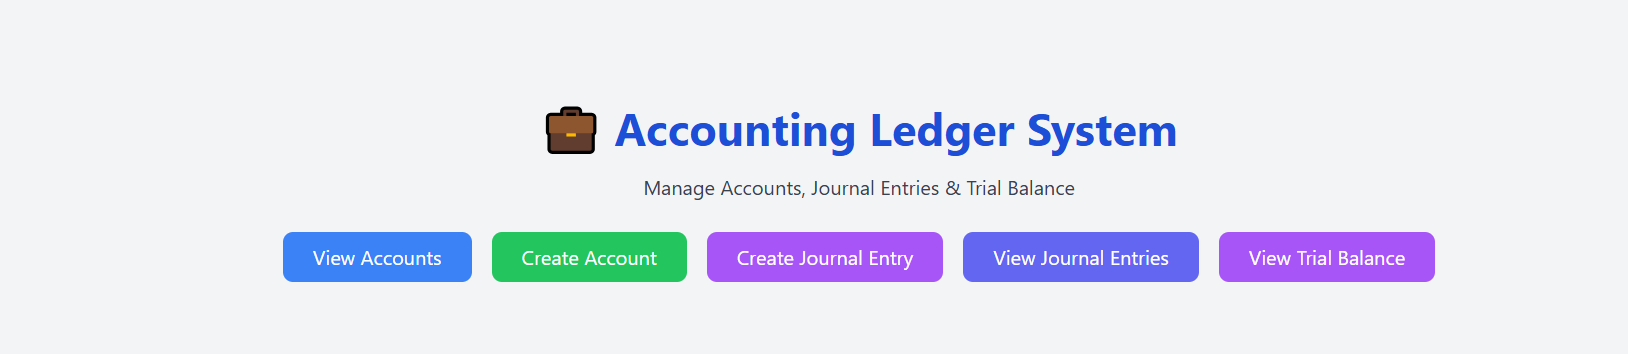
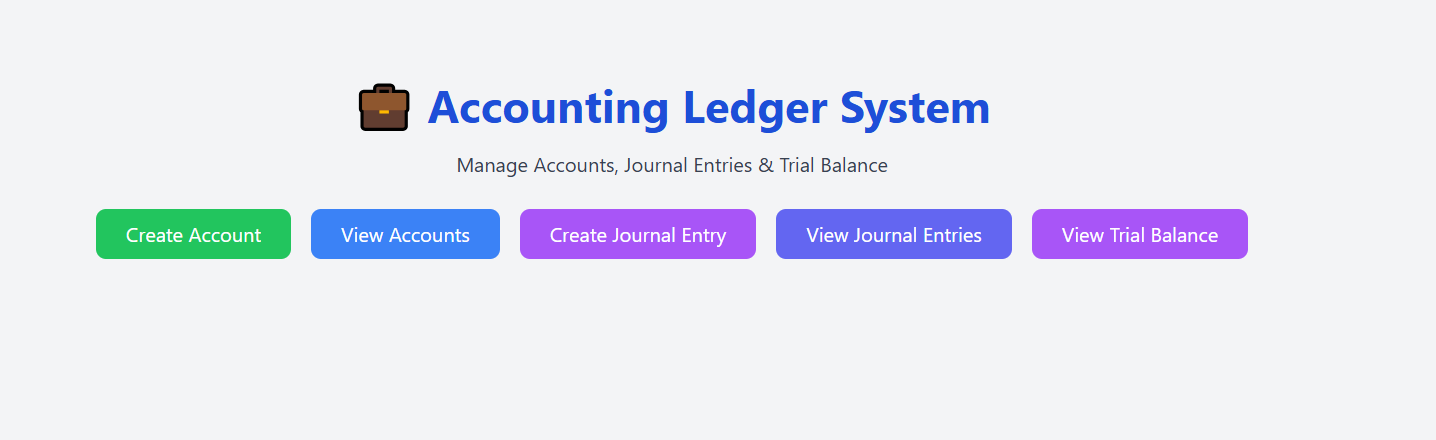
Upload Screenshot

Changed region(s): [[0.1532, 0.6525, 0.8886, 0.8079], [0.0613, 0.4661, 0.8886, 0.5904], [0.2451, 0.1864, 0.7354, 0.435]]

diff --git a/AccountingLedgerSystem/src/pages/Home.jsx b/AccountingLedgerSystem/src/pages/Home.jsx
@@ -14,17 +14,18 @@ const Home = () => {
       <p className="mb-6 text-gray-700">Manage Accounts, Journal Entries & Trial Balance</p>
 
       <div className="flex gap-4">
-        <Link
-          to="/accounts"
-          className="px-6 py-2 bg-blue-500 hover:bg-blue-600 text-white rounded-lg transition"
-        >
-          View Accounts
-        </Link>
+
         <Link
           to="/accounts/create"
           className="px-6 py-2 bg-green-500 hover:bg-green-600 text-white rounded-lg transition"
         >
           Create Account
+        </Link>
+                <Link
+          to="/accounts"
+          className="px-6 py-2 bg-blue-500 hover:bg-blue-600 text-white rounded-lg transition"
+        >
+          View Accounts
         </Link>
         <Link
             to="/journalentries/create"

diff --git a/AccountingLedgerSystem/src/features/journal/JournalEntryForm.jsx b/AccountingLedgerSystem/src/features/journal/JournalEntryForm.jsx
@@ -85,7 +85,7 @@ const JournalEntryForm = () => {
           />
         </label>
 
-  <h4 className="mt-4 mb-2 font-semibold">Journal Details:</h4>
+  <h4 className="mt-4 mb-2 font-semibold">Lines:</h4>
       {formData.lines.map((line, idx) => (
         <div key={idx} className="mb-4 grid grid-cols-3 gap-4 items-center">
           <div>
@@ -137,7 +137,7 @@ const JournalEntryForm = () => {
           onClick={addLine}
           className="mb-4 px-4 py-1 bg-gray-300 rounded"
         >
-          + Add Journal Details
+          + Add Line
         </button>
 
         <button

diff --git a/AccountingLedgerSystem/src/features/accounts/AccountList.jsx b/AccountingLedgerSystem/src/features/accounts/AccountList.jsx
@@ -23,6 +23,7 @@ const AccountList = () => {
   }, []);
 
   return (
+    
     <div className="p-6">
      <h2 className="text-2xl font-semibold mb-4 text-blue-700">💼 Accounts List</h2>
 
@@ -51,6 +52,7 @@ const AccountList = () => {
               ))}
             </tbody>
           </table>
+          
         </>
       )}
     </div>
